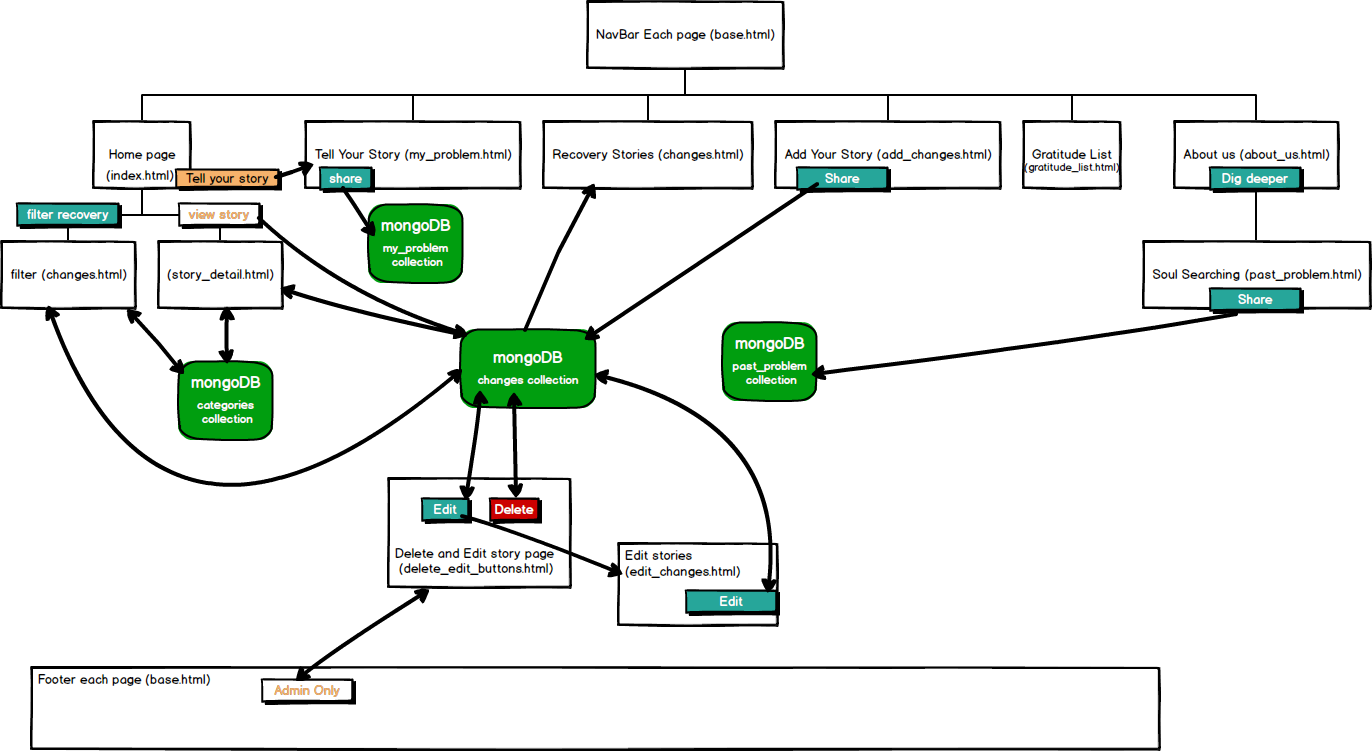
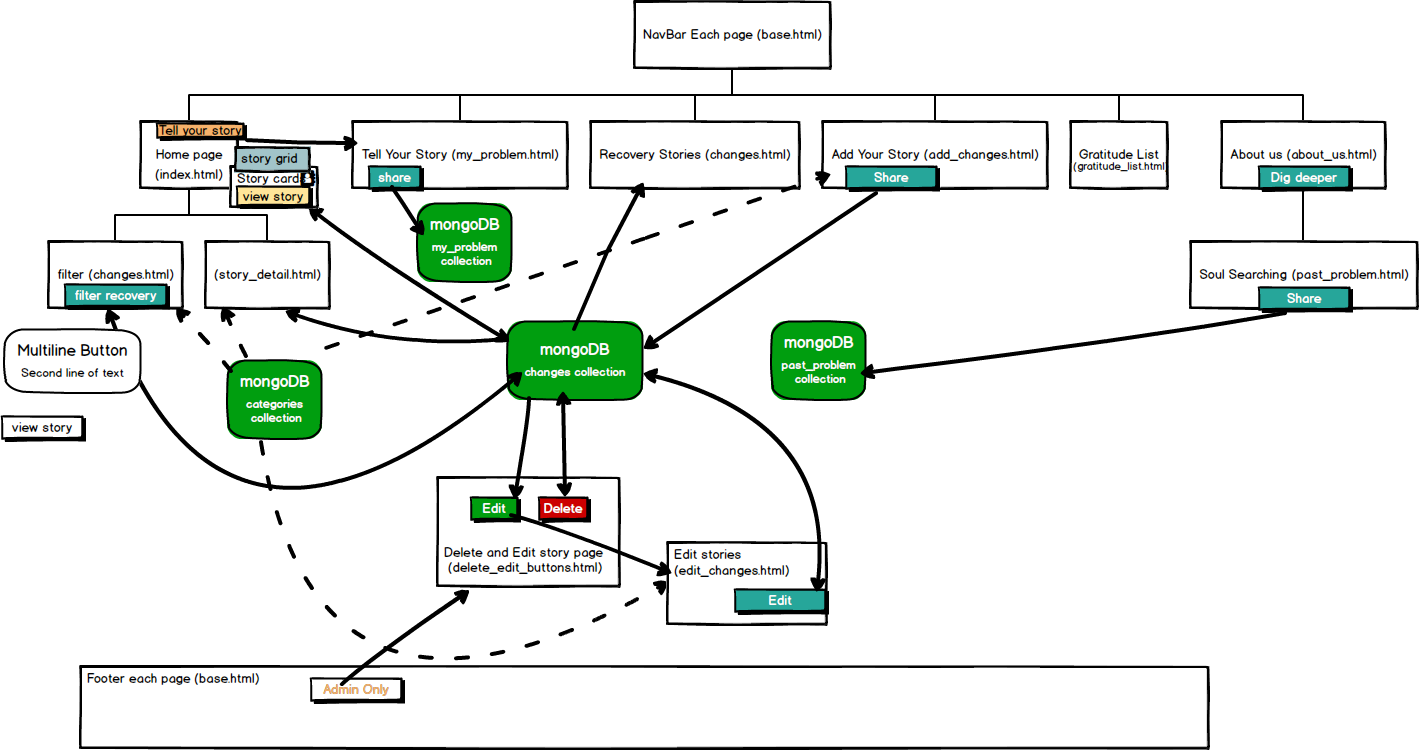
update balsamiq IA skeleton

diff --git a/README.md b/README.md
@@ -605,11 +605,15 @@ an auto added image chosen for each addiction. This would ensure that the home p
 ![Missing story Image](assets/defensive_design/missing_image.jpg)
 
 3. to make the choice of habit linked to a photo a required field other wise lots of empty fields.
-4. Move the edit and delete button apart in the desktop version so a user could not delete a story by mistake. 
+4. Move the edit and delete button far apart so a user could not delete a story by mistake. 
 
-![button layout](assets/defensive_design/capture.jpg)
+![button layout](assets/defensive_design/capture.jpg)- too close;
 
-5. Form design - simple without thinking too much, effortless
+In the real world it is possible that only authorised admin access will be able to delete stories in the future. 
+we will be so keen to prevent any barriers to collection of data that login may add the extra effort which will bias the results towards more functional and computer savvy users who are not the user group who will benefit most.
+The anticipated solution is likely to be hiding the delete function. For the purpose of this student project, I have removed the delete button from smaller screens so that accidental deletion is avoided. The iphone 5 device rendered the edit and delete button side by side so accidental omission was too likely. In the interest of defensive design screens smaller than 350px will not show the delete button on the delete_edit_button.html page.
+
+5. Form design - simple without thinking too much, effortless. the selection questions prompt users and keep interest rather than being baffling or confusing. 
 
 6. Form submission simplified. - The number of fields completed is not obligatory. To date there is only one required field for habit name needed for submission. 
 Considering defensive design we anticipate that this will result in a number of half completed forms being sent to the database but this in itself will help us gather information as to which questions the user and user/contributors believe to be relevant and engaging.
@@ -1157,12 +1161,18 @@ My app has been testing by various student from the Slack community and by frien
 From doing this I have been able to confidently say that my app is fully responsiveness across all devices.
 
 
+testing extensively final time.
+Found that the chromedevtools inspect responsive test showed errors in main view story grid layout that were inaccurate. That is, the iphone 6 tests showed gaps in the alignment of the stories on the desktop iphone version which did not happen on the iphone6 or 6s tested. the rendering on the device was considered to be the ture reflection of responsivity.
+
+
 app.py tests
 10 problems shown in gitpod workspace. 
 Line too long, trailing white space, extra line. All corrected. 
 
 
-style.css tests 
+style.css tests.
+most of styling was contained within components 
+template language and mongo experiment a lot with getting look right. a lot of css within component left with it. colours eg tomato text repeated but in other places too much red. 
 
 static file images checks 
 
